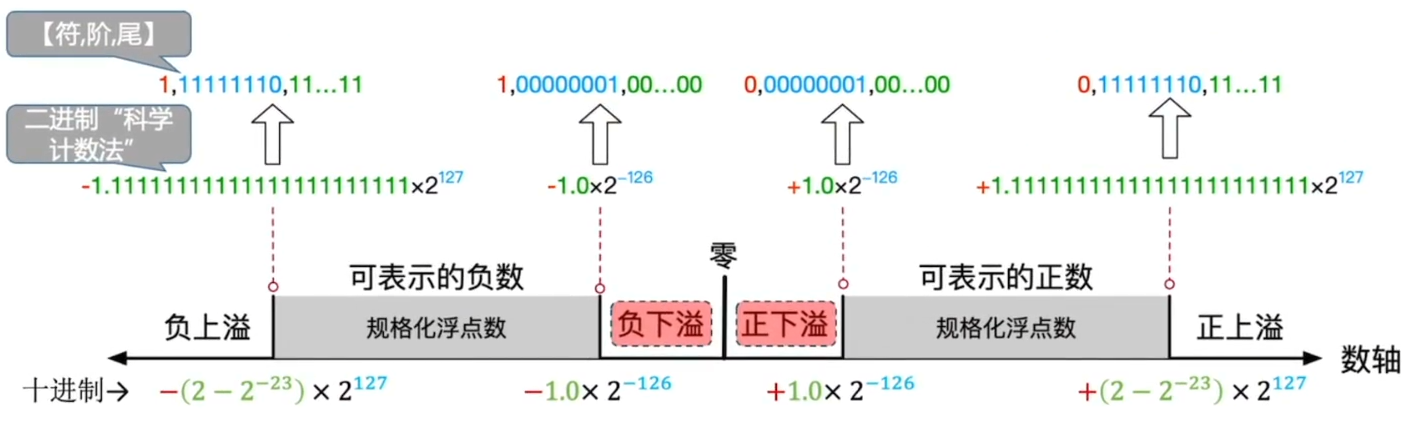
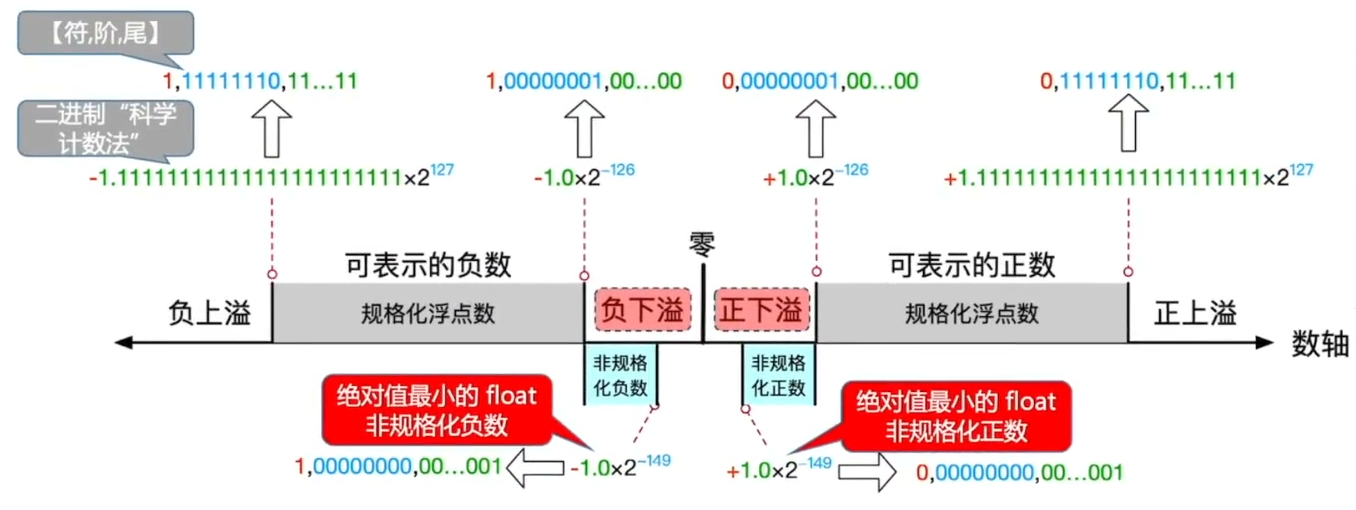
vault backup: 2026-09-19 23:38:26

diff --git a/计算机组成原理/第二章 数据的表示与运算Q.md b/计算机组成原理/第二章 数据的表示与运算Q.md
@@ -158,12 +158,14 @@
 *手算的原理：先手算求数学真值，再检查是否超出相对应类型的表示范围*
  - **带符号整数**：
     - 溢出 OF=1
+       - $C_n\oplus C_{n-1}$
     - SF：正数&零=0 / 负数=1
     - ZF：如果是零=1
     - CF：==不能使用手算的方式逆推==
  - **无符号整数**：
     - SF：没有意义
     - CF：溢出=1
+       - $C_{out}\oplus C_{in}=C_n\oplus C_0$
     - ZF：如果是零=1
     - OF：不能猜
 ## 补码快速转原码
@@ -279,6 +281,8 @@ unsigned int r1 = s1 + u1;
 
 # IEEE 754 浮点数的表示（float为例）
 
+##### 9.18
+
 舍入约定：按照“舍入到最近，恰好中点取偶”分析
 
 ## 浮点数结构与真值
@@ -332,15 +336,15 @@ $$
 
 **单精度**（32位）如下
 
-| 值类型    | 符号  | 阶码          | 尾数        | 值                |
-| ------ | --- | ----------- | --------- | ---------------- |
-| 正零     | 0   | 0           | 0         | 0                |
-| 负零     | 1   | 0           | 0         | -0               |
-| 正无穷大   | 0   | 255<br>（全1） | 0         | $\infty$         |
-| 负无穷大   | 1   | 255<br>（全1） | 0         | $-\infty$        |
-| 无定义数   | 0或1 | 255<br>（全1） | $f\neq 0$ | NaN              |
-| 非规格化正数 | 0   | 0           | $f\neq 0$ | $2^{-126}(0.f)$  |
-| 非规格化负数 | 1   | 0           | $f\neq 0$ | $-2^{-126}(0.f)$ |
+| 值类型    | 符号  | 阶码      | 尾数        | 值                |
+| ------ | --- | ------- | --------- | ---------------- |
+| 正零     | 0   | 0       | 0         | 0                |
+| 负零     | 1   | 0       | 0         | -0               |
+| 非规格化正数 | 0   | 0       | $f\neq 0$ | $2^{-126}(0.f)$  |
+| 非规格化负数 | 1   | 0       | $f\neq 0$ | $-2^{-126}(0.f)$ |
+| 正无穷大   | 0   | 255（全1） | 0         | $\infty$         |
+| 负无穷大   | 1   | 255（全1） | 0         | $-\infty$        |
+| 无定义数   | 0或1 | 255（全1） | $f\neq 0$ | NaN              |
 
 **双精度**（64位）如下
 
@@ -348,12 +352,11 @@ $$
 | ------ | --- | -------- | --------- | ----------------- |
 | 正零     | 0   | 0        | 0         | 0                 |
 | 负零     | 1   | 0        | 0         | -0                |
+| 非规格化正数 | 0   | 0        | $f\neq 0$ | $2^{-1022}(0.f)$  |
+| 非规格化负数 | 1   | 0        | $f\neq 0$ | $-2^{-1022}(0.f)$ |
 | 正无穷大   | 0   | 2047（全1） | 0         | $\infty$          |
 | 负无穷大   | 1   | 2047（全1） | 0         | $-\infty$         |
 | 无定义数   | 0或1 | 2047（全1） | $f\neq 0$ | NaN               |
-| 非规格化正数 | 0   | 0        | $f\neq 0$ | $2^{-1022}(0.f)$  |
-| 非规格化负数 | 1   | 0        | $f\neq 0$ | $-2^{-1022}(0.f)$ |
-
 
 ## 编码与解码
 
@@ -394,3 +397,226 @@ $$
 | 0.3             | $\dfrac{3}{10},2\times5$ | 二进制无限循环 |
 | $\dfrac{3}{12}$ | $\dfrac{1}{4}$           | 二进制有限   |
 *一句话总结：==确定真值的二进制能够有限位结束后，还要检查有效数字是否能装入float的24位有效精度==*，例如：$2^{24}+1$不能精确表示，但$2^{24}+2$可以
+
+### 舍入判断
+
+为保证精度，现在截断尾数的时候引入三个辅助位：
+ 1. 保护位：紧邻尾数的第一位，用于初步判断舍入信息
+     - 保护位为**0**，则**直接舍弃**
+     - 保护位为**1**
+        - 舍入位==**或**==粘滞位为**1**，尾数直接+1
+        - 舍入位==**和**==粘滞位均为**0**，则在尾数末尾为**奇数**时，尾数+1
+ 2. 舍入位：位于保护位之后，与保护位和粘滞位共同构成舍入信息
+ 3. 粘滞位：只要舍入位后至少存在一个1，则值为1
+
+## 注意真值用浮点数能否装下：检查范围
+
+| 数值         | 能否成为有限float | 能否精确表示     |
+| ---------- | ----------- | ---------- |
+| 0.2        | 能           | 不能         |
+| $2^{24}+1$ | 能           | 不能         |
+| $2^{24}+2$ | 能           | 能          |
+| $2^{128}$  | 不能，上溢       | -          |
+| $2^{-150}$ | 能，舍入后为0     | 不能精确表示原非零值 |
+
+## 浮点数大小表示
+
+**过程**：
+ - 同为正规格化数：正数按阶码、尾数顺序比较；负数按**相反**方向比较
+ - 同为非正规格化数：尾数字段越大，真值越大；同为负非规格化数则**相反**
+ - 任意正的规格化数**大于**任意正非规格化数；任意负规格化数**小于**任意负非规格化数
+ - 一些特殊值的大小比较：
+    - +∞大于所有有限数，-∞小于所有有限数，且+∞>-∞
+    - +∞=+∞，-∞=-∞；但+∞<+∞，-∞<-∞均为**假**
+    - +0=-0
+    - NaN与其他数的大小比较为**无序**，无序不是“真假不确定”，而是两个操作数不属于<、=、>任何一种关系，NaN与自身也**不相等**
+
+# 整型浮点型的跨类型转换
+
+##### 9.19
+
+408常考 32位int 和 32位float 的转换：二者空间占用相同，但float只有24位有效精度，因此整数转float时通常不缺范围，可能丢失精度
+
+## 常见转换
+
+| 转换               | 结论                                        |
+| ---------------- | ----------------------------------------- |
+| ==int -> float== | 可能丢失精度                                    |
+| float -> int     | 范围内向0截断（==只保留整数部分==）<br>超出整数范围时，标准C不能保证结果 |
+| 32位int -> double | 可以精确表示                                    |
+| float -> double  | 已有float值可以精确扩大                            |
+| double -> float  | 可能舍入、上溢或下溢                                |
+
+# 整数加减法、标志位与移位
+
+## 四个标志位
+
+**整数加减与这几个标志位的关系**：
+
+| 标志        | 含义                      | 生成逻辑？ |
+| --------- | ----------------------- | ----- |
+| CF：进/借位标志 | 无符号加法产生进位<br>或无符号减法产生借位 |       |
+| OF：溢出标志   | 带符号整数（补码）加减法溢出          |       |
+| ZF：零标志    | 保留结果为0                  |       |
+| SF：符号标志   | 保留结果的最高位                |       |
+*SF只是截断后结果的最高位，当OF=1时，不能根据SF判断数学真值的正负*
+
+四个标志位用于**整数加减法运算**，核心原因是：
+ - 加法/减法（以及比较CMP）会同时产生“**结果值+进位/借位+符号信息**”，这些信息刚好能**覆盖整数运算里最常见的判断**：==是否溢出、是否为0、结果正负、无符号大小关系==
+ - 因此后续很多条件分支（if/else）、循环判断都会直接依赖这四个标志位
+
+**整数乘除运算与这几个标志位的关系**：
+ - x86 `MUL/IMUL`主要规定CF、OF，==溢出时置为1==；ZF、SF通常未定义
+ - x86 `DIV/IDIV`的CF、OF、ZF、SF通常未定义
+ - x86 除法溢出通常不能表述为==OF置为1==
+
+**浮点数运算与这几个标志位的逻辑关系**：（FPU）
+ - 普通浮点数加减不按照整数加减规则使用CF、OF、ZF、SF
+ - 浮点运算状态通常由专用状态寄存器记录
+ - 具体浮点比较指令是否更新部分标志位，由ISA规定
+
+## CMP与SUB指令的区别
+
+*if-else语句中，经常对比两个整数的大小，在机器看来，无符号整数、带符号整数没有任何区别，都是按一套逻辑、一套电路去做减法运算，并生成标志位*
+
+```asm
+SUB A,B; 计算A-B保存结果并更新标志位
+CMP A,B; 计算A-B，不保存结果，只更新标志位
+```
+
+## 移位运算
+
+| 操作     | 补入内容   | 与乘除法的关系                    |
+| ------ | ------ | -------------------------- |
+| 左移k位   | 低位补0   | 未丢失有效位时等价于$2^k$            |
+| 逻辑右移k位 | 高位补0   | 无符号整数等价于除$2^k$后向下取整        |
+| 算数右移k位 | 高位补符号位 | 负数通常向负无穷取整，不一定等于C语言向0截断的除法 |
+*-5算数右移一位得到-3，而C语言-5/2得到-2*
+
+| 操作   | x86指令     | MIPS指令 |
+| ---- | --------- | ------ |
+| 左移   | `SHL/SAL` | `SLL`  |
+| 逻辑右移 | `SHR`     | `SRL`  |
+| 算数右移 | `SAR`     | `SRA`  |
+对于x86`SHL/SAL`：CF保存最后一个被移出最高位的比特，
+ - 仅当移位次数**为1**时，$OF=CF\oplus 结果最高位$，
+ - 移位次数**大于1**时，OF通常未定义
+
+# 整数乘法
+
+## 三种实现方式
+
+| 实现     | 核心思想       | 特点           |
+| ------ | ---------- | ------------ |
+| 纯软件    | 循环、移位、加法   | 无专用乘法硬件，速度较慢 |
+| 加法器+移位 | 逐轮产生部分积    | 多周期，硬件适中     |
+| 整列乘法器  | 并行产生并累加部分积 | 速度快，硬件开销大    |
+
+![[带符号整数乘法电路图.png]]
+
+相比无符号整数乘法电路，相当于在Y后多了一个**辅助位**
+
+**开始**：
+ 1. 将被除数、乘数放入X、Y
+ 2. 乘积寄存器P置为0，==辅助位置为0==
+ 3. 计数器$C_n$的初始值置为n（n为乘数的位数）
+
+重复n轮 ==加/减法、移位==运算，直到$C_n=0$
+ 1. 将==乘数寄存器的最低位、辅助位==，<span style="color:red;font-weight:bold">2bit</span>送入控制逻辑进行判断
+ 2. 根据==寄存器Y的最低位、辅助位==，决定是$+[x]_补,-[x]_补,+0$
+ 3. 将【P、Y、辅助位】视为整体，<span style="color:red;font-weight:bold">算数右移</span>一位
+ 4. 计数器$C_n-1$
+**结束流程**（$C_n=0$）
+ 5. 乘法运算的结果用2n位暂存（寄存器P，寄存器Y）
+     - 很多计算机架构中只存低位，所以可能发生溢出
+
+**溢出判断**：
+ - 两个n bit**带符号整数**相乘，运算结果使用2n bit暂存，通常仅保留低n位作为结果
+   即==若高n+1位不完全相同==，则**发生溢出**，此时<span style="color:red">可将OF标志位置为1</span>
+
+![[无符号整数乘法电路图.png]]
+**无符号乘法流程**：重复n轮（n就是乘数Y的尾数）
+ 1. 将==乘数寄存器Y的最低位==，送入控制逻辑判断
+ 2. 若**最低位为1**，则==**执行加法**==，运算结果写回**P**，进位保存至C
+    若**最低位为0**，则==什么都不做==
+ 3. 将【C、P、Y】视为整体，==逻辑右移一位==
+ 4. 计数器$C_n-1$
+**结束流程**（$C_n=0$）
+ 5. 乘法运算的结果用2n暂存
+ -  在很多计算机架构中，只保留低n位作为结果，因此可能会发生==溢出==
+
+**溢出判断**：
+ - 两个n bit无符号整数相乘，运算结果使用2n bit暂存，通常仅保留低n位作为结果
+   即==若高n位不全为0==，则**发生溢出**，此时<span style="color:red">可将OF标志位置为1</span>
+
+## <span style="color:red">完整乘积与溢出</span>
+
+两个n位操作数的完整乘积最多需要2n位，只保留低n位时：
+ - 无符号乘法：全n位全0，才不溢出
+ - 带符号乘法：高n位必须是低n位**符号位**的完整拓展才不溢出
+
+若要处理溢出情况，需要在乘法指令之后，执行==溢出自陷指令==
+## 复习建议
+
+强化阶段有限掌握完整乘积、2n位机器数、高低半部分、signed/unsigned 溢出判断和三种实现方法能简答即可
+
+除非题目要求第k轮寄存器内容时才逐轮模拟
+
+# 整数除法
+
+![[整数除法.png]]
+
+## 手算推演除法运算结果
+$$
+x=qy+r,|r|<|y|
+$$
+一句话总结：
+ - ==**无符号除法** = 小学除法（**商向下取整、余数非负**）==
+ - ==**带符号除法**需要额外约定**商向0截断、余数与被除数同号**==
+
+*a=-5，b=2，a/b，商寄存器：-2，余数：-5 =-2(q)×2(y) + r，即余数r = -1*
+
+## 几种除法异常
+
+**情况**：
+ 1. 无符号数/带符号数，注意：==除数为0==
+ 2. 带符号数注意：绝对值最大负数/-1，导致商超出正数补码范围
+ 3. 单字长被除数 vs 双字长被除数的无符号除法
+     - 对于 “ n 位无符号被除数 ÷ n 位非零无符号除数 -> n 位商”，除数为0仍然会触发异常
+     - 对于 “ 2n 位无符号被除数`R:Q` ÷ n 位非零无符号除数Y -> n 位商”：
+        - `R<Y`时商**可装入**n位
+        - `R>=Y`时商**溢出**
+
+## 被除数拓展为双倍字长【R:Q】的规则
+
+**无符号被除数**：**零拓展** -- Q=被除数，R全0
+
+**带符号被除数**（补码）：**符号拓展** -- R与被除数符号位一致，非负全0、负数全1
+
+# 浮点数加减
+
+## 基本过程
+
+==检查特殊值 -> 对阶 -> 尾数加减 -> 规格化 -> 舍入 -> 再次规格化 -> 检查阶码==
+
+对阶遵循“小阶向大阶看齐”，可能出现大数吞小数
+对阶右移时保留G、R、S位
+
+就近舍入、恰好中点取偶时，进位条件为$G\wedge(R\vee S\vee L)$，其中L为保留部分最低位
+
+## 浮点数加减运算风险表
+
+| 阶段   | 风险或现象          | float加减示例                             | 结论             |
+| ---- | -------------- | ------------------------------------- | -------------- |
+| 对阶   | 低位丢失、大数吞小数     | $2^100+1=2^100$                       | 小操作数移出有效精度     |
+| 尾数相加 | 尾数产生进位         | `1.5f+1.5f=3.0f`                      | 需要右规，但不自动上溢    |
+| 尾数相减 | 有效数字大量抵消       | $1+2^{-23}-1=2^{-23}$                 | 结果需要多次左规       |
+| 右规   | 阶码+1，可能上溢      | `FLT_MAX+FLT_MAX`                     | 阶码越界，得到+∞      |
+| 左规   | 阶码减小，可能进入非规格化区 | `00800000H-007FFFFFH=00000001H`       | 结果为最小非规格化数     |
+| 舍入   | 舍入进位可能再次右规     | `3FFFFFFFH+33800000H=40000000H`       | 中点取偶后得到2.0     |
+| 最终封装 | 产生无穷、非规格化数或0   | `FLT_MAX+FLT_MAX`;边界相减;`1.0f+(-1.0f)` | 分别得到+∞；非规格化数；0 |
+
+## 典型示例 两个最大float相加
+
+设$x=y=(2-2^{-23})2^{127}$：阶码相同 -> 尾数相加产生进位 -> 右规 -> 阶码加1 -> 阶码超出范围 -> 结果为+∞
+
